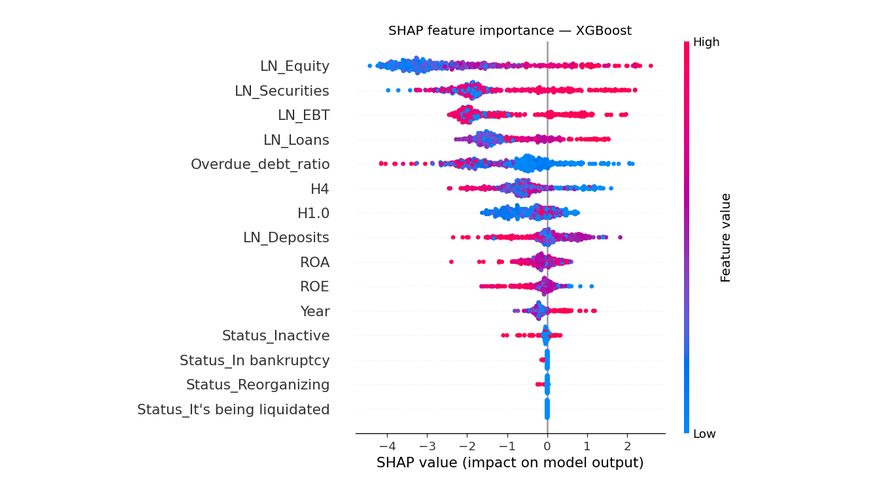
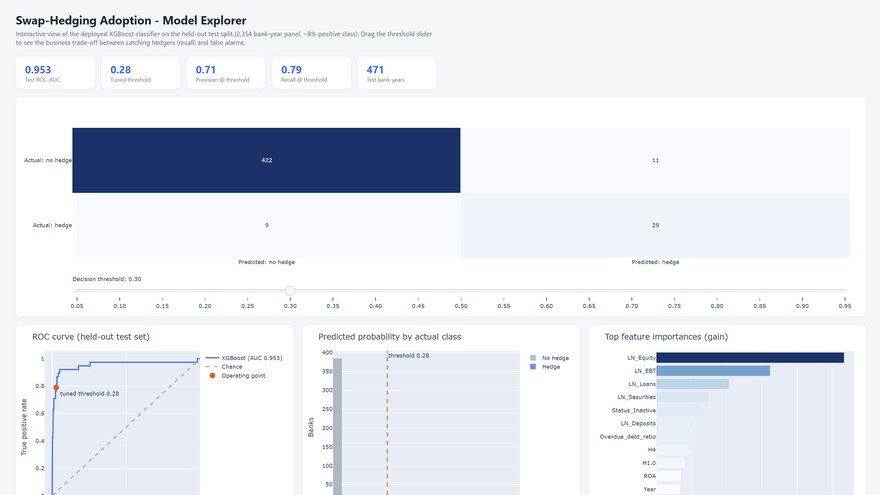
content: use the live Model Explorer dashboard on the swap-hedging card
Replaces the SHAP figure with a screenshot of the deployed dashboard —
title, the five metrics (0.953 AUC, 0.28 threshold, 0.71/0.79), confusion
matrix, threshold slider and all three charts. Full-resolution version
served in the lightbox.

diff --git a/index.html b/index.html
@@ -1041,7 +1041,7 @@ const PROJECTS=[
   repo:'https://github.com/Nikkat-Afrin/SigmaCam',
   demo:'https://ieeexplore.ieee.org/abstract/document/11227622',demoLabel:'Read paper →'},
 
- {t:'Swap-Hedging Model Explorer',img:'swap.jpg',k:'ml',kind:'Finance ML · Live',
+ {t:'Swap-Hedging Model Explorer',img:'swap.jpg',full:'swap-full.jpg',k:'ml',kind:'Finance ML · Live',
   d:'ML pipeline predicting interest-rate swap hedging adoption across a 2,354 bank-year panel, with a live explorer where you drag the decision threshold and watch precision/recall move.',
   m:'ROC-AUC 0.953 · SHAP explained',
   tags:['XGBoost','SHAP','scikit-learn','Plotly'],
